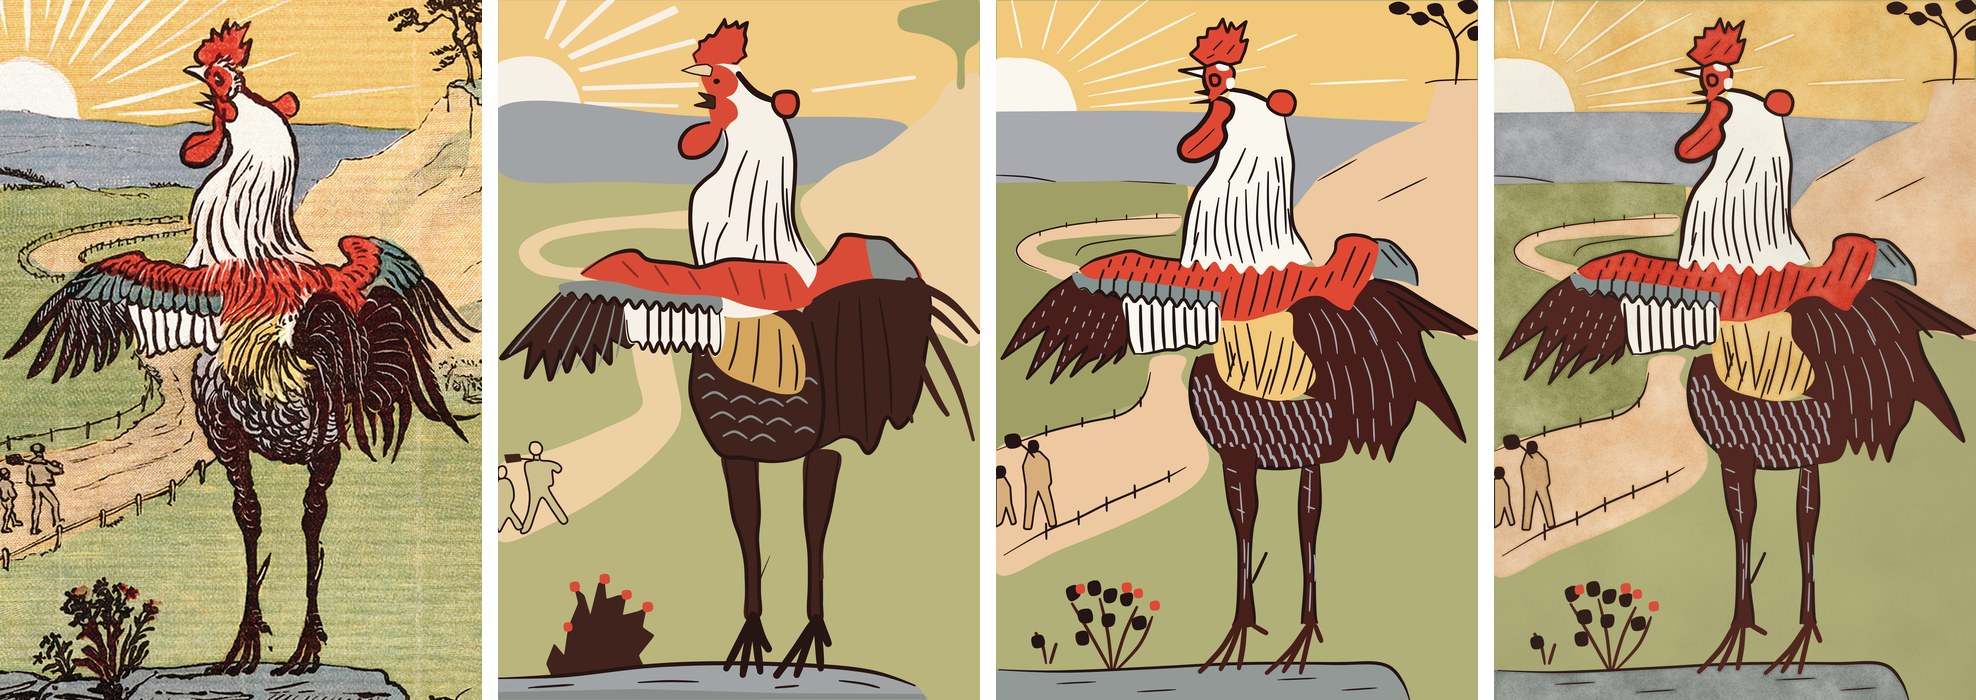
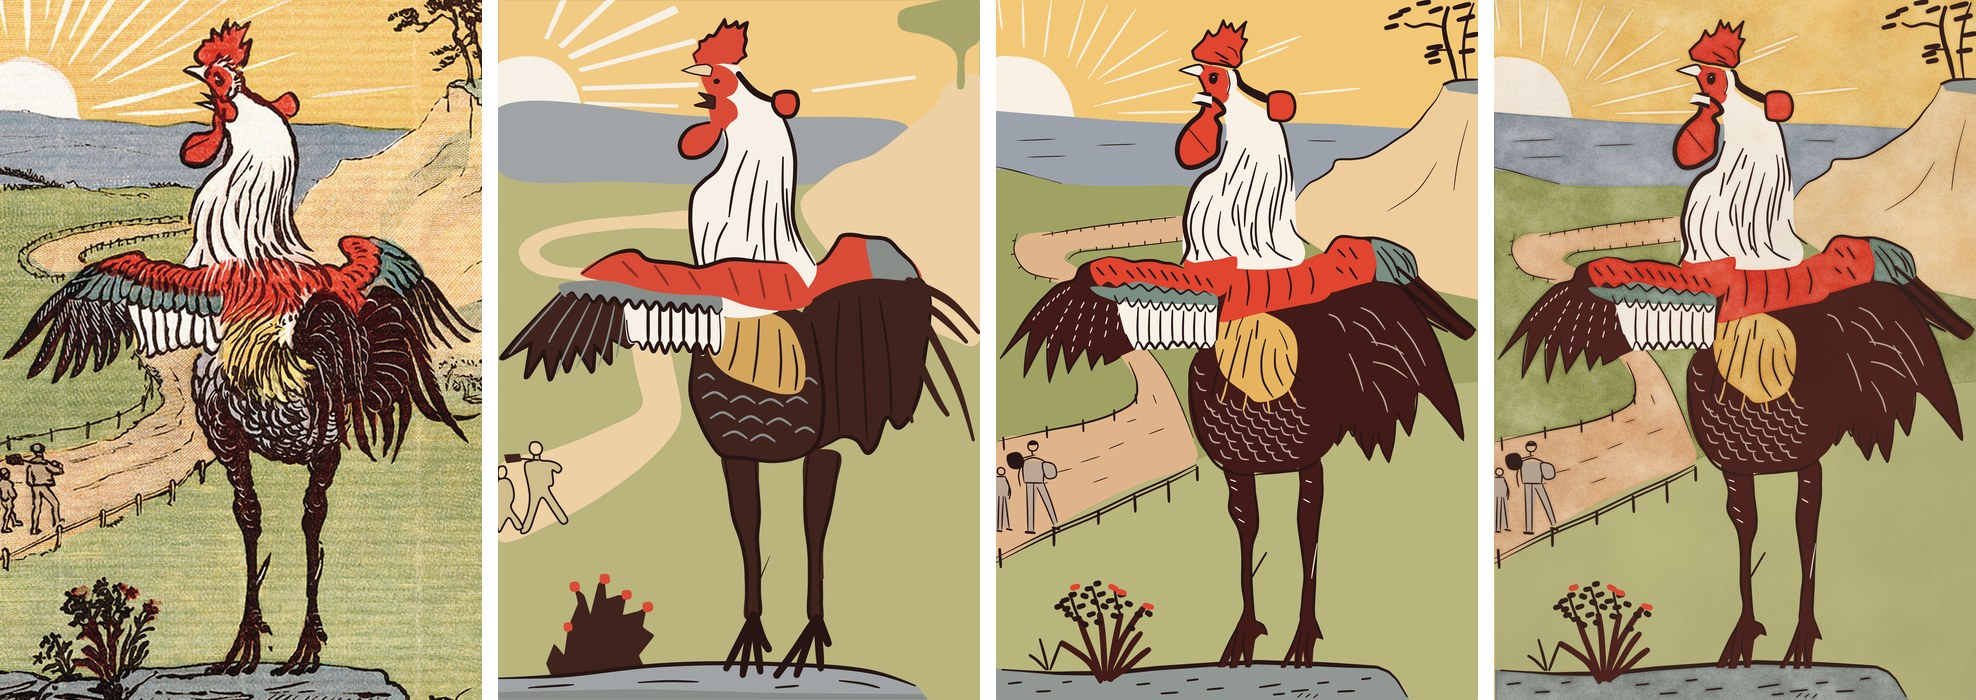
README: the latest rooster and the retriever photo in the gallery

Changed region(s): [[0.4939, 0.0, 1.0, 1.0]]

diff --git a/README.md b/README.md
@@ -11,14 +11,21 @@ at any point.
 
 ## Gallery
 
-![A rooster: the subject, a first drawing, a second drawing after the linework gate, and the watercolour-and-ink finish](docs/rooster.jpg)
+![A rooster: the subject, the first drawing, the latest drawing, and its watercolour-and-ink finish](docs/rooster.jpg)
 
-A rooster from a hand-coloured print, drawn twice. Left to right: the subject;
-the first drawing, which had the shapes right but no hatching and one even
-outline; the second, after the skill learned to measure the subject's
-hatching and line weights (`--hatch`, `--linework`); and that drawing finished
-as watercolour and ink on cold-press paper (`style.json`). Subject: Randolph
-Caldecott, public domain.
+A rooster from a hand-coloured print. Left to right: the subject; the first
+drawing, with the shapes right but no hatching and one even outline; the
+latest, after the skill learned to measure hatching and line weights
+(`--hatch`, `--linework`), to build small figures in full, and never to drop
+a named object; and that drawing finished as watercolour and ink on
+cold-press paper (`style.json`). Subject: Randolph Caldecott, public domain.
+
+![A golden retriever: the photo, the drawing, and a coloured-pencil sketch finish](docs/retriever.jpg)
+
+A photograph: the subject, the drawing, and a coloured-pencil sketch finish
+with the construction left faint. Colour is sampled from the coat's richest
+mid-tones and the head's landmark ratios are measured before drawing.
+Subject: David Whelan, CC0.
 
 ![A road bicycle: the subject, the drawing, and an ink-pen finish](docs/bicycle.jpg)
 
